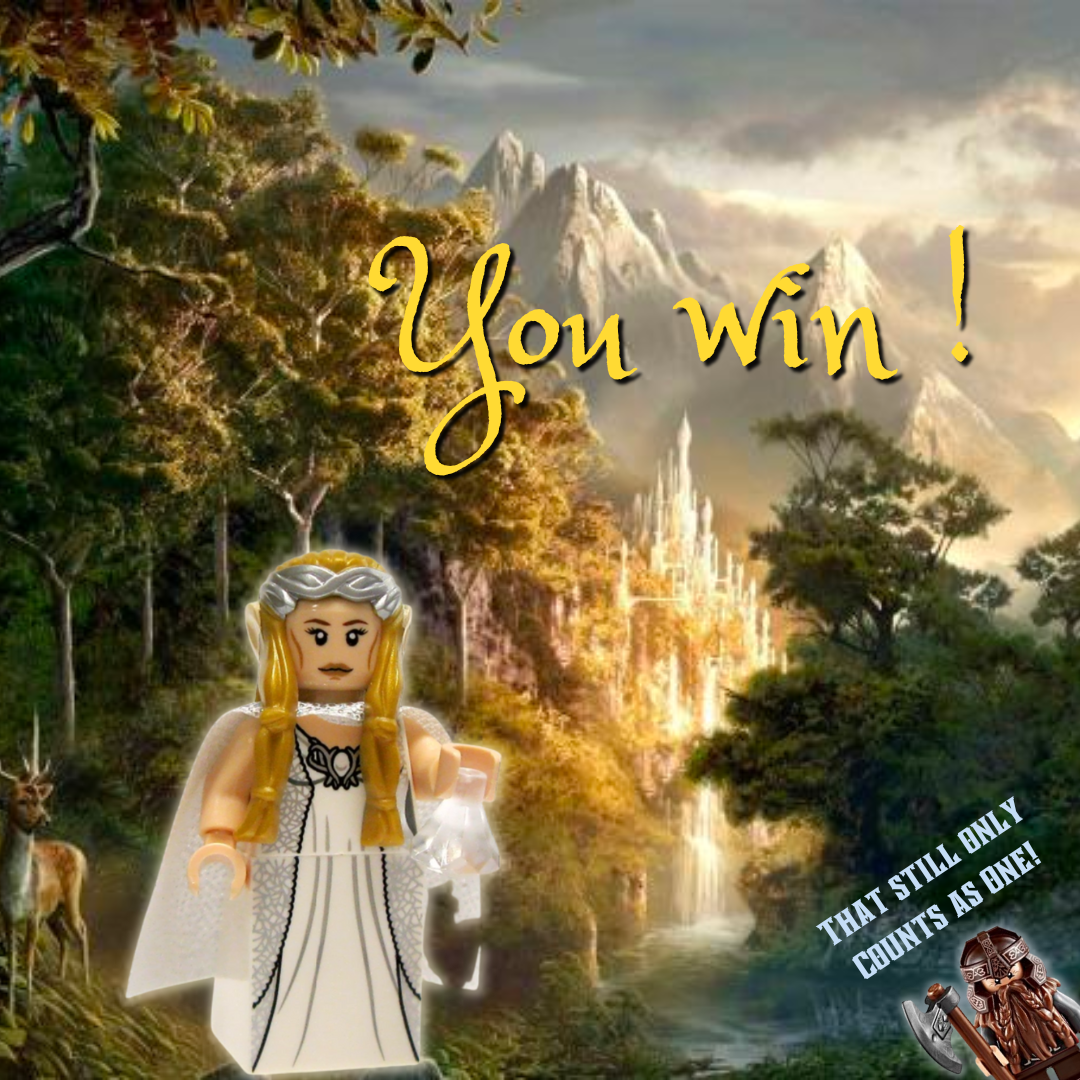
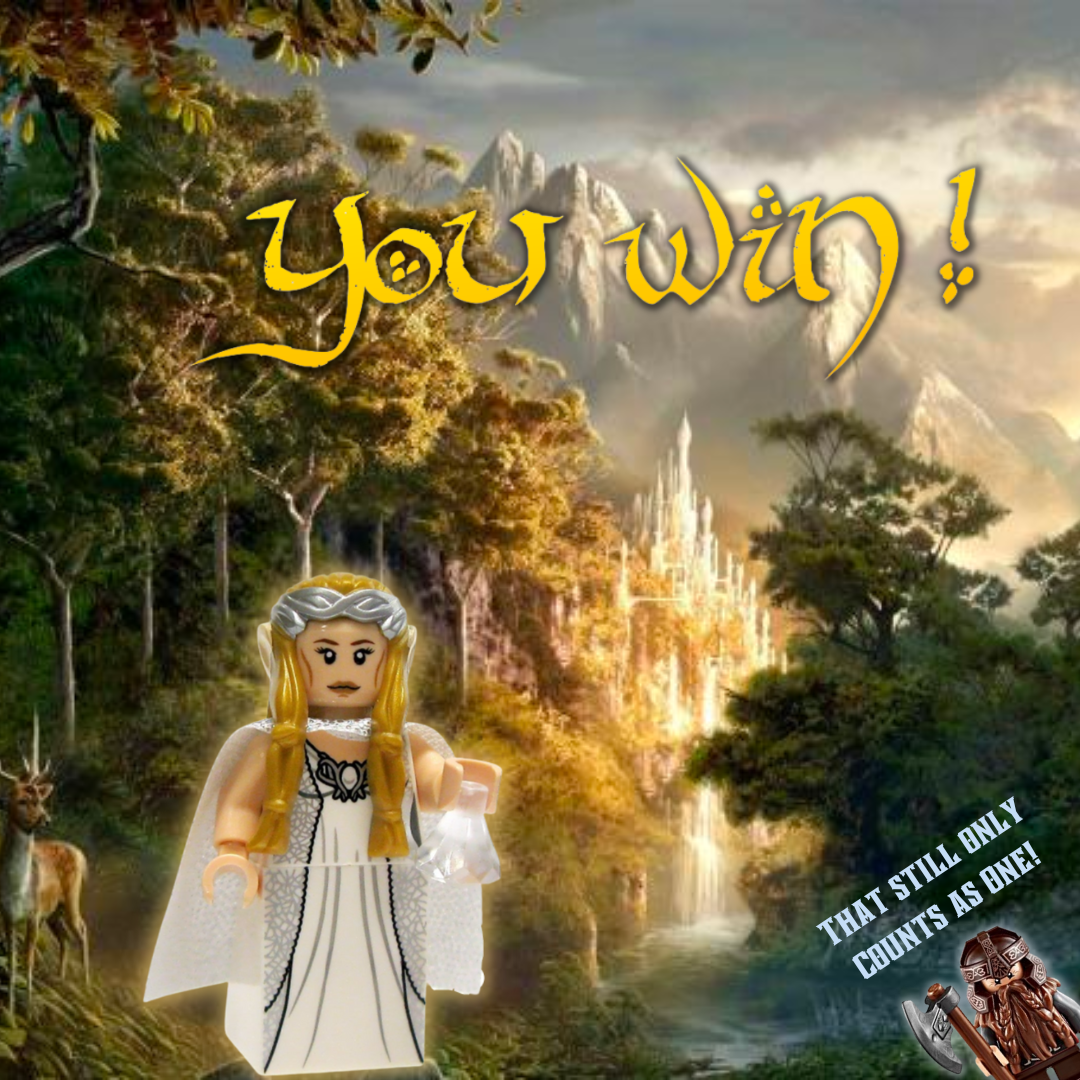
timer changed

Changed region(s): [[0.0917, 0.4889, 0.4889, 1.0], [0.1833, 0.1222, 0.9167, 0.4583]]

diff --git a/scripts/app.js b/scripts/app.js
@@ -92,6 +92,8 @@ function init() {
   // explosion
   const explosionClass = 'explosion'
 
+  let time = 900
+
 
   //? FUNCTIONS
   // clear storage - high score, level, reload
@@ -388,7 +390,7 @@ function init() {
       }
       newBomb()
 
-    }, 900)
+    }, time)
 
   }
 
@@ -396,16 +398,14 @@ function init() {
   //? screens / levels
 
   function replay() {
-
     nextScreen.classList.add(show) //show next level screen
-
     cells.forEach(item => item.classList.remove(enemyClass, laserClass, bombClass))  //remove everything
     enemyClass = enemyChoice[1] //change class
 
     laserArr = []  //clear arms
     bombArr = []
     bombClass = 'spear' //change class
-    
+    time = 800 // faster
 
     setTimeout(() => {
       nextScreen.classList.remove(show)//hide screen div

diff --git a/styles/main.css b/styles/main.css
@@ -14,8 +14,6 @@
 }
 
 
-
-
 * {
   box-sizing: border-box;
 }
@@ -30,7 +28,6 @@ body {
   align-items: center;
   background-image: linear-gradient(rgba(237, 228, 159, 0.7), rgba(237, 228, 159, 0.7)), url(../images/map.webp);
   background-size: cover;
-
 
 }
 
@@ -157,7 +154,7 @@ section {
   right: 0;
   bottom: 0;
   display: none;
-  background-image: url(../images/Game\ won.png);
+  background-image: url(../images/gameWon.png);
   background-size: cover;
 }
 
